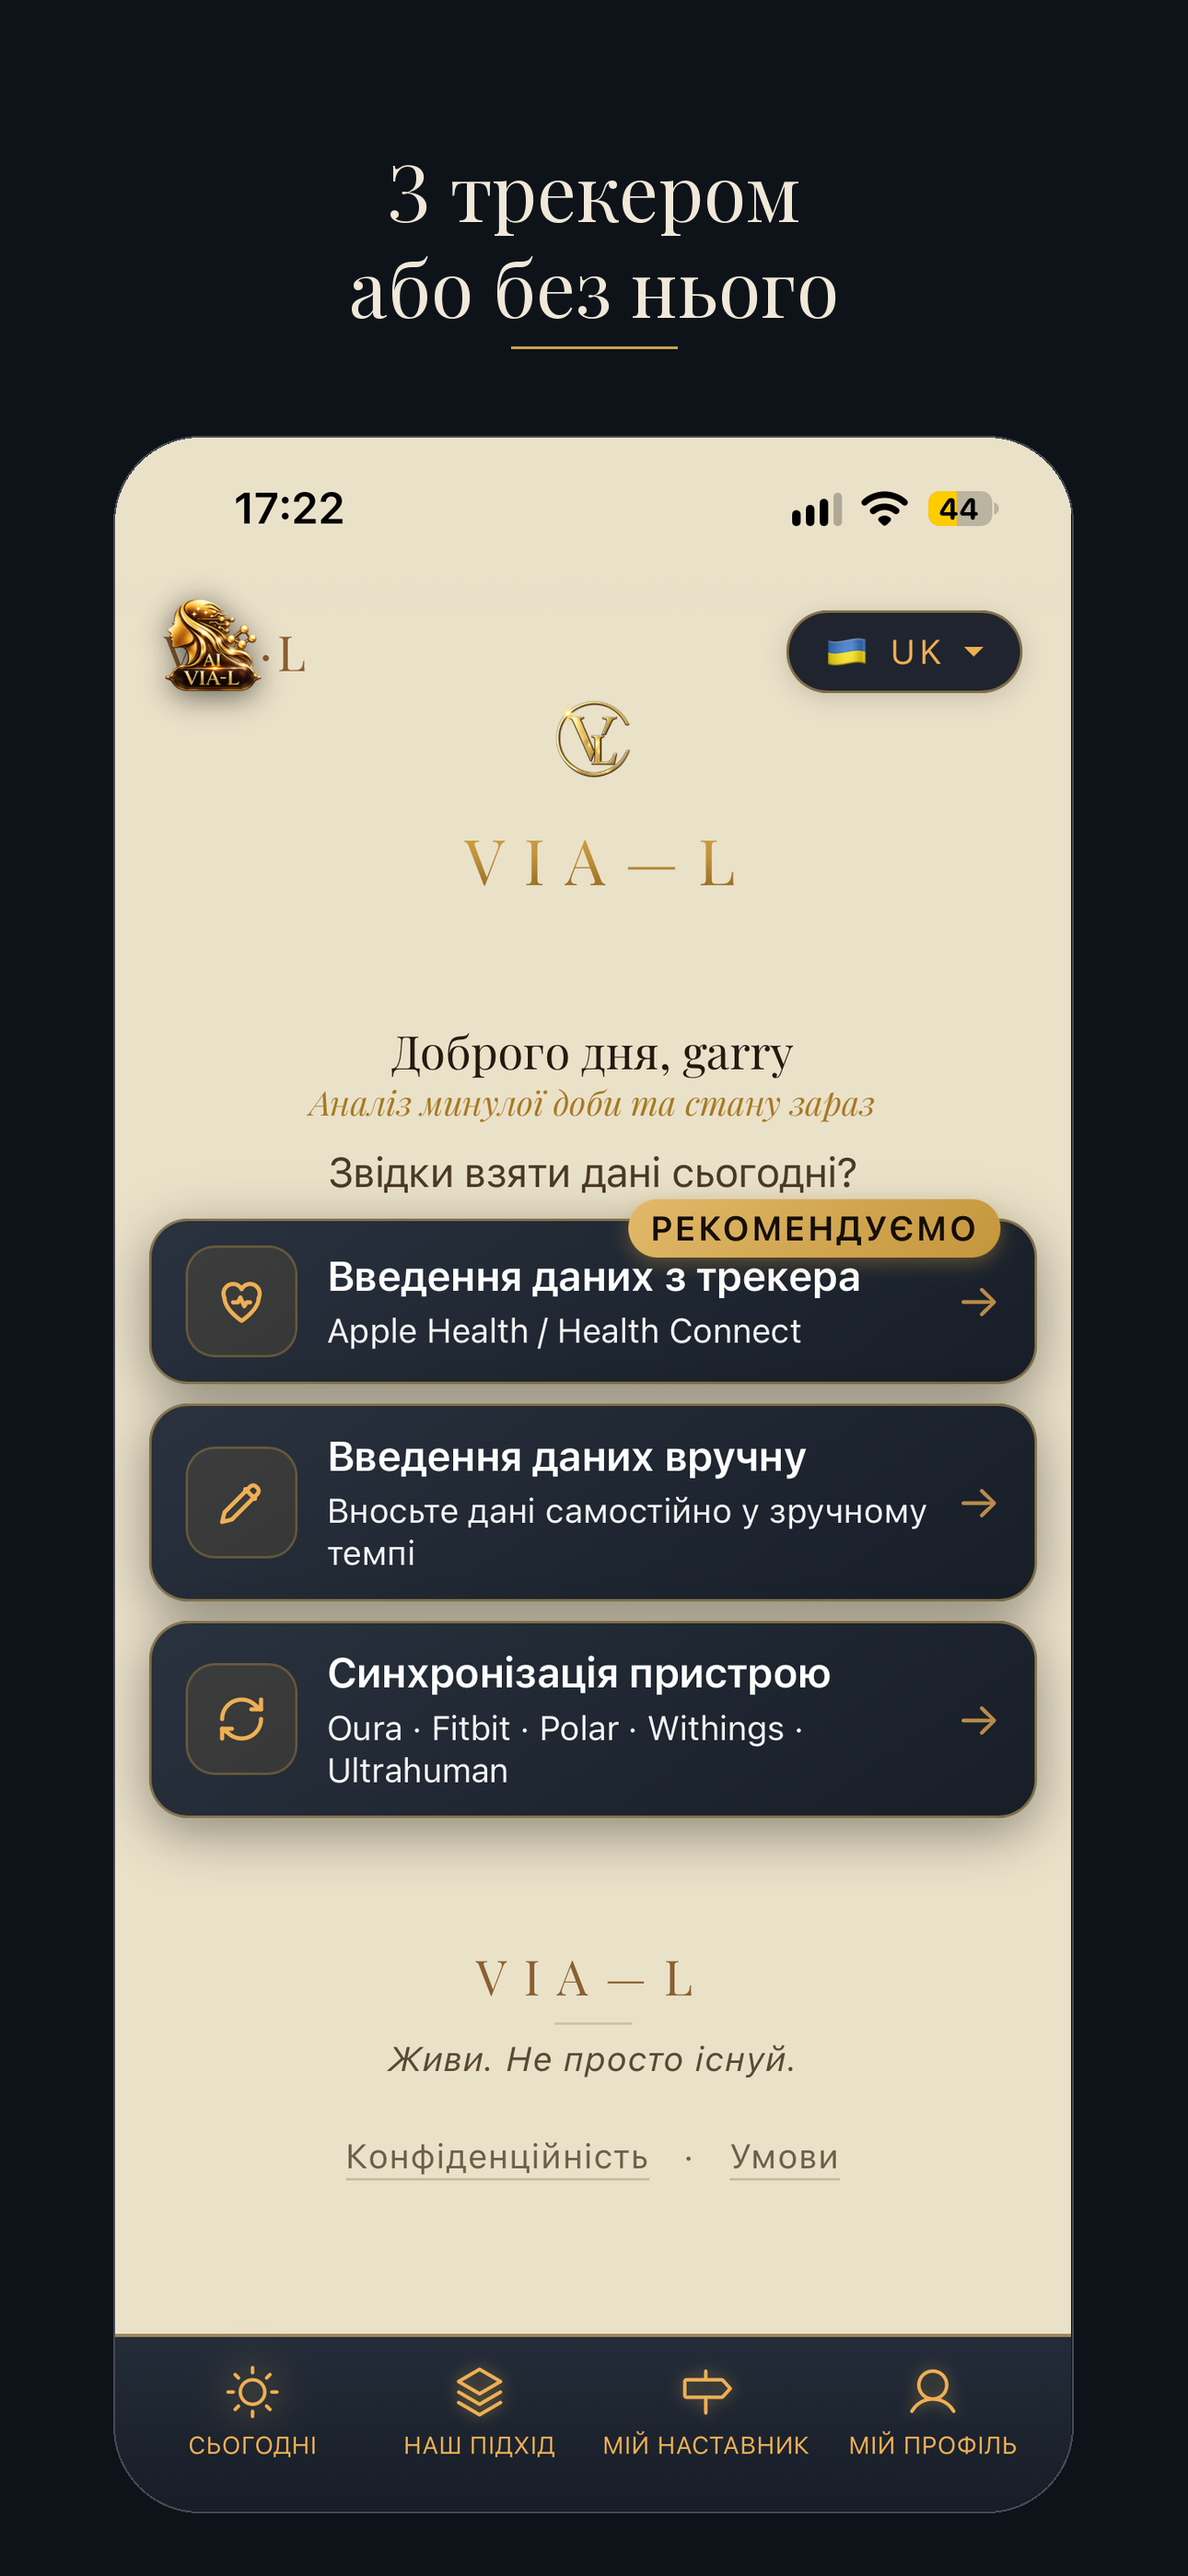
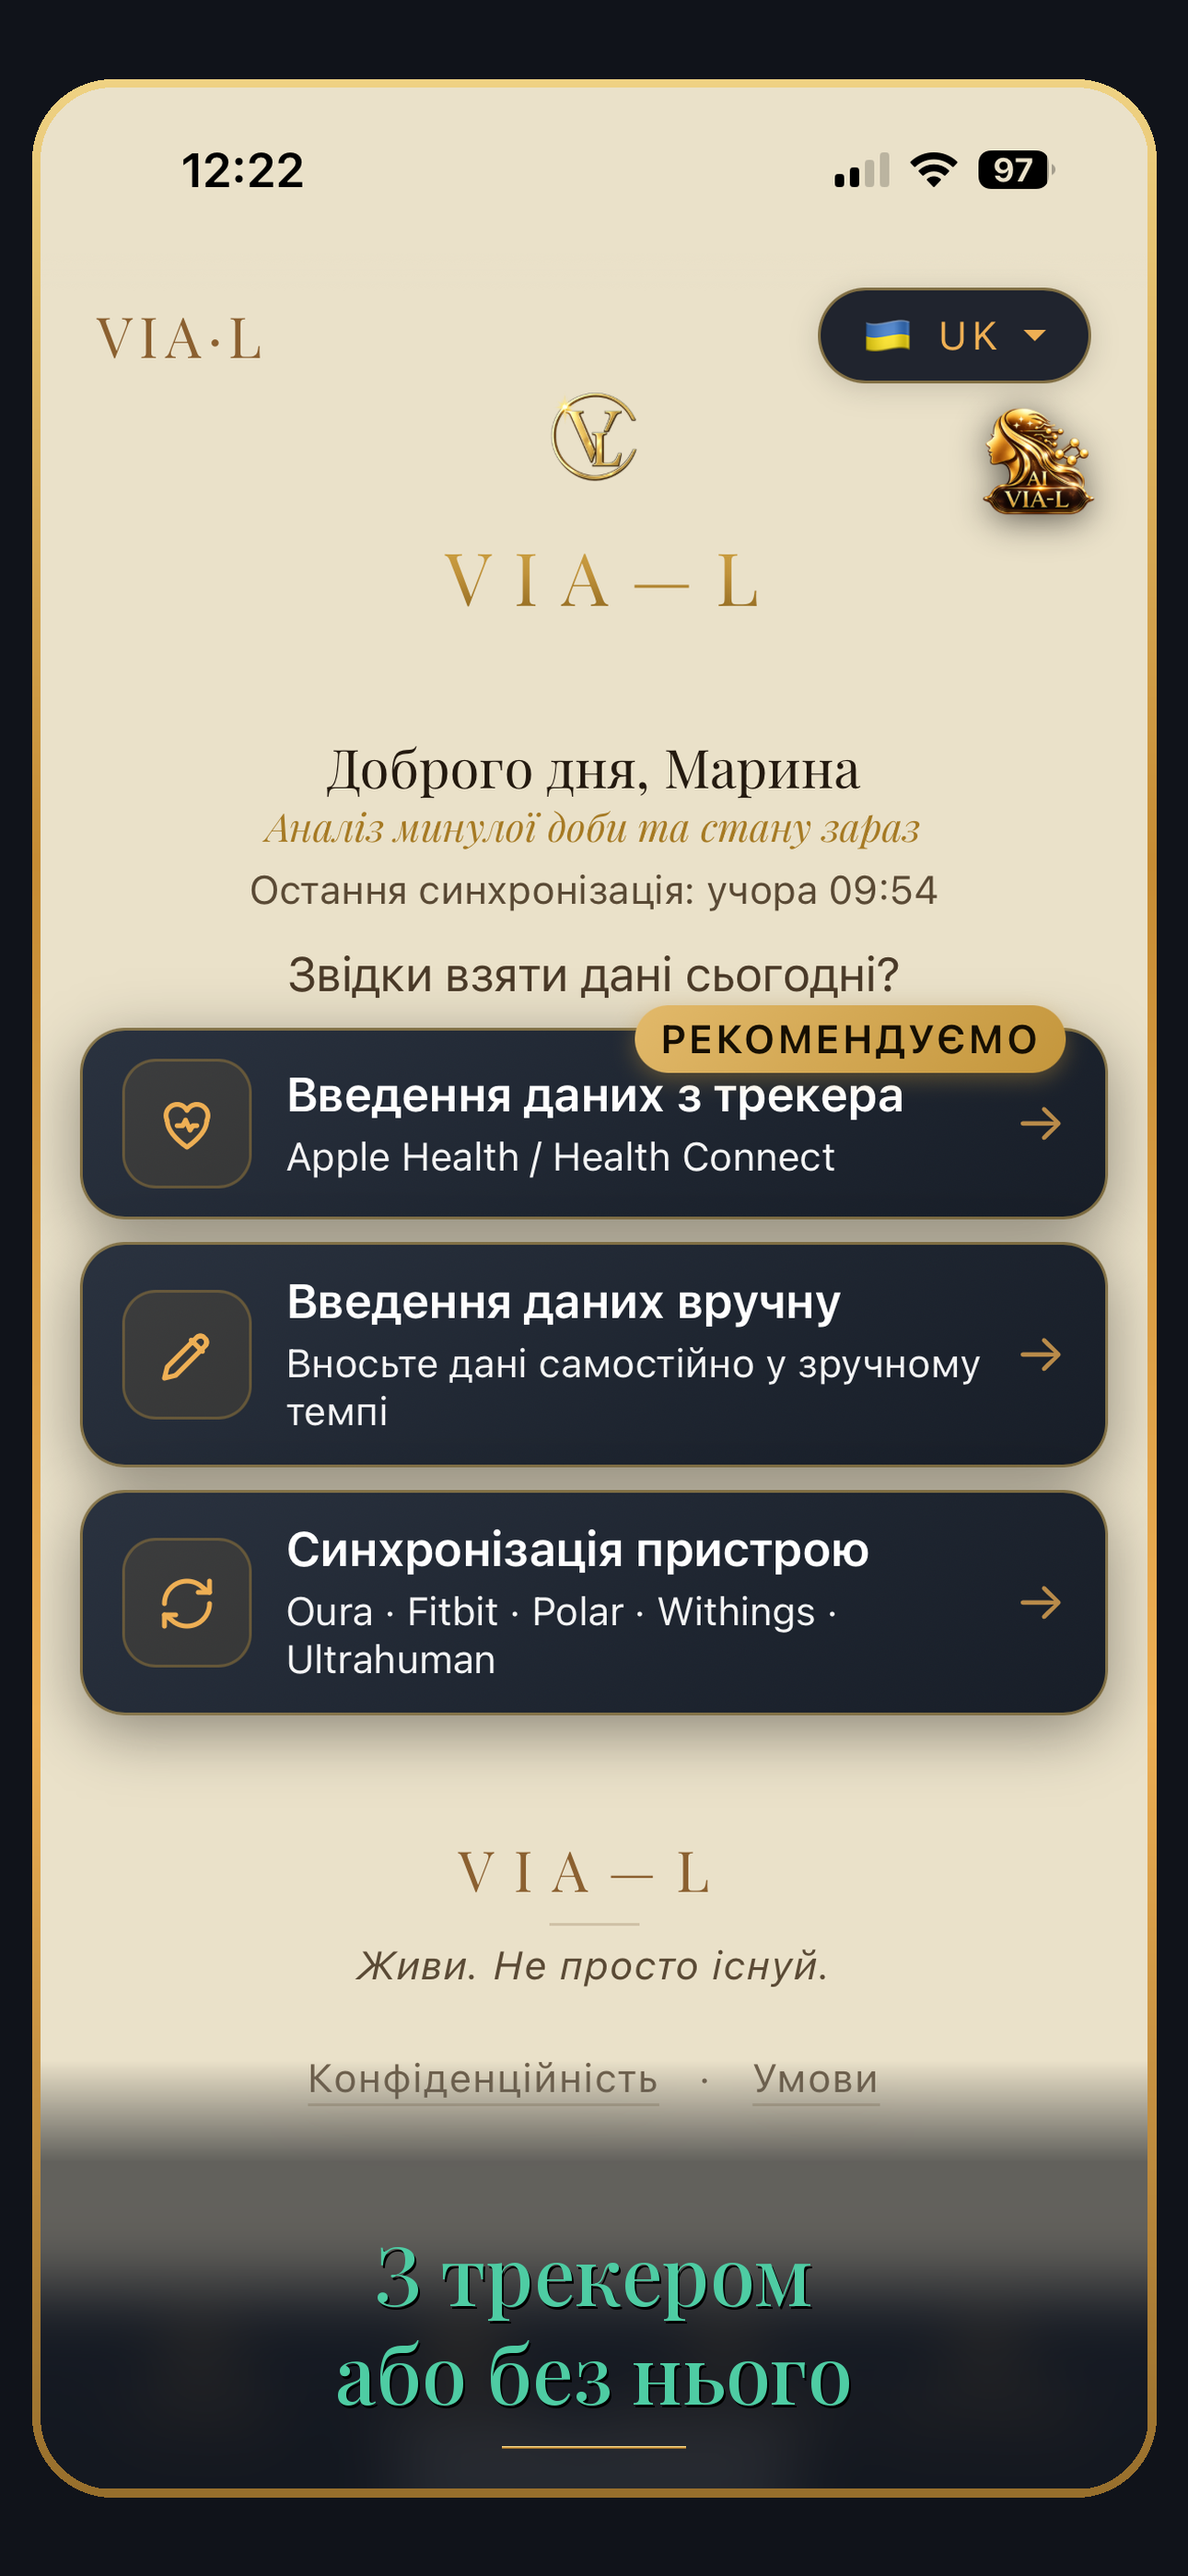
App Store: украинские скриншоты — 7 кадров в золотой рамке, подпись бирюзой на размытой полосе; uk: «ко» → «до»

diff --git a/interpreter/cloudflare-worker.js b/interpreter/cloudflare-worker.js
@@ -5973,6 +5973,7 @@ const _UK_RUSSISMS = [
   ['добрый вечер', 'добрий вечір'], ['спасибо', 'дякую'], ['пожалуйста', 'будь ласка'], ['сегодня', 'сьогодні'],
   ['сейчас', 'зараз'], ['хорошо', 'добре'], ['если', 'якщо'], ['очень', 'дуже'], ['также', 'також'],
   ['тоже', 'теж'], ['только', 'лише'], ['конечно', 'звичайно'],
+  ['ко', 'до'],   // «Підготуйтеся ко сну» — заголовок карточки в разборе 2026-10-02
 ];
 function _ukPolish(text, env) {
   let out = String(text || ''), hit = [];

diff --git a/app/scripts/compose-store-shot.py b/app/scripts/compose-store-shot.py
@@ -1,28 +1,63 @@
-# Кадр App Store 1290×2796 в оформлении боевого набора: подпись (Playfair Display — в Didot нет кириллицы),
-# золотая черта, экран телефона со скруглением. python3 compose-store-shot.py <снимок> "Строка 1\nСтрока 2" <out.png>
+# Кадр App Store 1290×2796: снимок экрана в золотой рамке, подпись — поверх размытой полосы самого снимка
+# (сверху или снизу — где на экране нет важного), бирюзой приложения (--ok #4ECCA3), Playfair Display.
+#   python3 compose-store-shot.py <снимок> "Строка 1\nСтрока 2" <out.png> top|bottom [высота_полосы]
 # Шрифт: SHOT_FONT=/путь/PlayfairDisplay[wght].ttf (github.com/google/fonts, ofl/playfairdisplay).
+# Apple рамки и подписи на скриншотах не запрещает; нельзя только показывать то, чего в приложении нет.
 import sys, os
 from PIL import Image, ImageDraw, ImageFont, ImageFilter
-REF='app/store/images/screenshots-appstore/01.png'
-W,H=1290,2796; X0,X1,Y0=125,1163,475
-BG=(14,18,25); CREAM=(240,232,216); GOLD=(201,162,84)
-def font(size):
-    for path,idx in ((os.environ.get('SHOT_FONT','Playfair.ttf'),0),):
-        return ImageFont.truetype(path,size,index=idx)
-def compose(src,caption,out):
-    im=Image.open(src).convert('RGB')
-    sw=X1-X0; sh=round(im.height*sw/im.width)
-    if im.width<sw:
-        im=im.resize((sw,sh),Image.LANCZOS).filter(ImageFilter.UnsharpMask(radius=2,percent=60,threshold=2))
-    else: im=im.resize((sw,sh),Image.LANCZOS)
-    c=Image.new('RGB',(W,H),BG); d=ImageDraw.Draw(c)
-    lines=caption.split('\n'); f=font(84)
-    while max(d.textlength(l,font=f) for l in lines)>W-160: f=font(f.size-4)
-    y=150 if len(lines)==2 else 205
+W, H = 1290, 2796
+M = 44                                   # поле вокруг снимка
+BG = (16, 19, 26); TEAL = (78, 204, 163); GOLD = [(243, 217, 139), (198, 140, 52), (238, 175, 84), (142, 104, 40)]
+R = 78; FRAME = 9
+
+def font(size, weight=500):
+    f = ImageFont.truetype(os.environ.get('SHOT_FONT', 'Playfair.ttf'), size)
+    try: f.set_variation_by_axes([weight])
+    except Exception: pass
+    return f
+
+def gold_gradient(w, h):
+    g = Image.new('RGB', (1, h)); n = len(GOLD) - 1
+    for y in range(h):
+        t = y / max(1, h - 1) * n; i = min(int(t), n - 1); k = t - i
+        g.putpixel((0, y), tuple(round(GOLD[i][c] * (1 - k) + GOLD[i + 1][c] * k) for c in range(3)))
+    return g.resize((w, h))
+
+def compose(src, caption, out, where='top', band=None, patch=None):
+    im = Image.open(src).convert('RGB')
+    if patch:                              # закрасить «◂ Chrome» в строке состояния цветом фона рядом
+        x0, y0, x1, y1 = patch; ImageDraw.Draw(im).rectangle(tuple(patch), fill=im.getpixel((x1 + 30, (y0 + y1) // 2)))
+    sw = W - 2 * M; sh = round(im.height * sw / im.width); top = (H - sh) // 2
+    im = im.resize((sw, sh), Image.LANCZOS)
+    lines = caption.split('\n'); f = font(88)
+    d0 = ImageDraw.Draw(im)
+    while max(d0.textlength(l, font=f) for l in lines) > sw - 150: f = font(f.size - 4)
+    lh = round(f.size * 1.22); th = lh * len(lines)
+    bh = band or (th + 250)
+    y0 = 0 if where == 'top' else sh - bh
+    # размытая полоса + затемнение, к внутреннему краю сходит на нет
+    blur = im.filter(ImageFilter.GaussianBlur(34))
+    dark = Image.blend(blur, Image.new('RGB', im.size, BG), 0.62)
+    mask = Image.new('L', (sw, sh), 0); md = ImageDraw.Draw(mask); fade = 110
+    for i in range(bh):
+        a = 255 if i < bh - fade else round(255 * (bh - i) / fade)
+        y = y0 + i if where == 'top' else sh - 1 - i
+        md.line((0, y, sw, y), fill=a)
+    im = Image.composite(dark, im, mask); d = ImageDraw.Draw(im)
+    ty = (y0 + (bh - fade - th) // 2 + 20) if where == 'top' else (sh - (bh - fade) + (bh - fade - th) // 2 - 10)
     for l in lines:
-        w=d.textlength(l,font=f); d.text(((W-w)/2,y),l,font=f,fill=CREAM); y+=104
-    d.rectangle((555,376,735,378),fill=GOLD)
-    mask=Image.new('L',(sw,sh),0); ImageDraw.Draw(mask).rounded_rectangle((0,0,sw,sh),radius=92,fill=255)
-    ImageDraw.Draw(c).rounded_rectangle((X0-2,Y0-2,X1+2,Y0+sh+2),radius=94,outline=(70,74,84),width=2)
-    c.paste(im,(X0,Y0),mask); c.save(out)
-if __name__=='__main__': compose(sys.argv[1],sys.argv[2].replace('\\n','\n'),sys.argv[3])
+        w = d.textlength(l, font=f)
+        d.text(((sw - w) / 2 + 2, ty + 3), l, font=f, fill=(0, 0, 0))          # лёгкая тень для читаемости
+        d.text(((sw - w) / 2, ty), l, font=f, fill=TEAL); ty += lh
+    gl = gold_gradient(200, 3); im.paste(gl, ((sw - 200) // 2, ty + 34))
+    # холст, золотая рамка, скругление
+    c = Image.new('RGB', (W, H), BG)
+    ring = Image.new('L', (W, H), 0); rd = ImageDraw.Draw(ring)
+    rd.rounded_rectangle((M - FRAME, top - FRAME, M + sw + FRAME, top + sh + FRAME), radius=R + FRAME, fill=255)
+    c.paste(gold_gradient(W, H), (0, 0), ring)
+    sm = Image.new('L', (sw, sh), 0); ImageDraw.Draw(sm).rounded_rectangle((0, 0, sw, sh), radius=R, fill=255)
+    c.paste(im, (M, top), sm); c.save(out)
+
+if __name__ == '__main__':
+    a = sys.argv
+    compose(a[1], a[2].replace('\\n', '\n'), a[3], a[4] if len(a) > 4 else 'top', int(a[5]) if len(a) > 5 else None)
